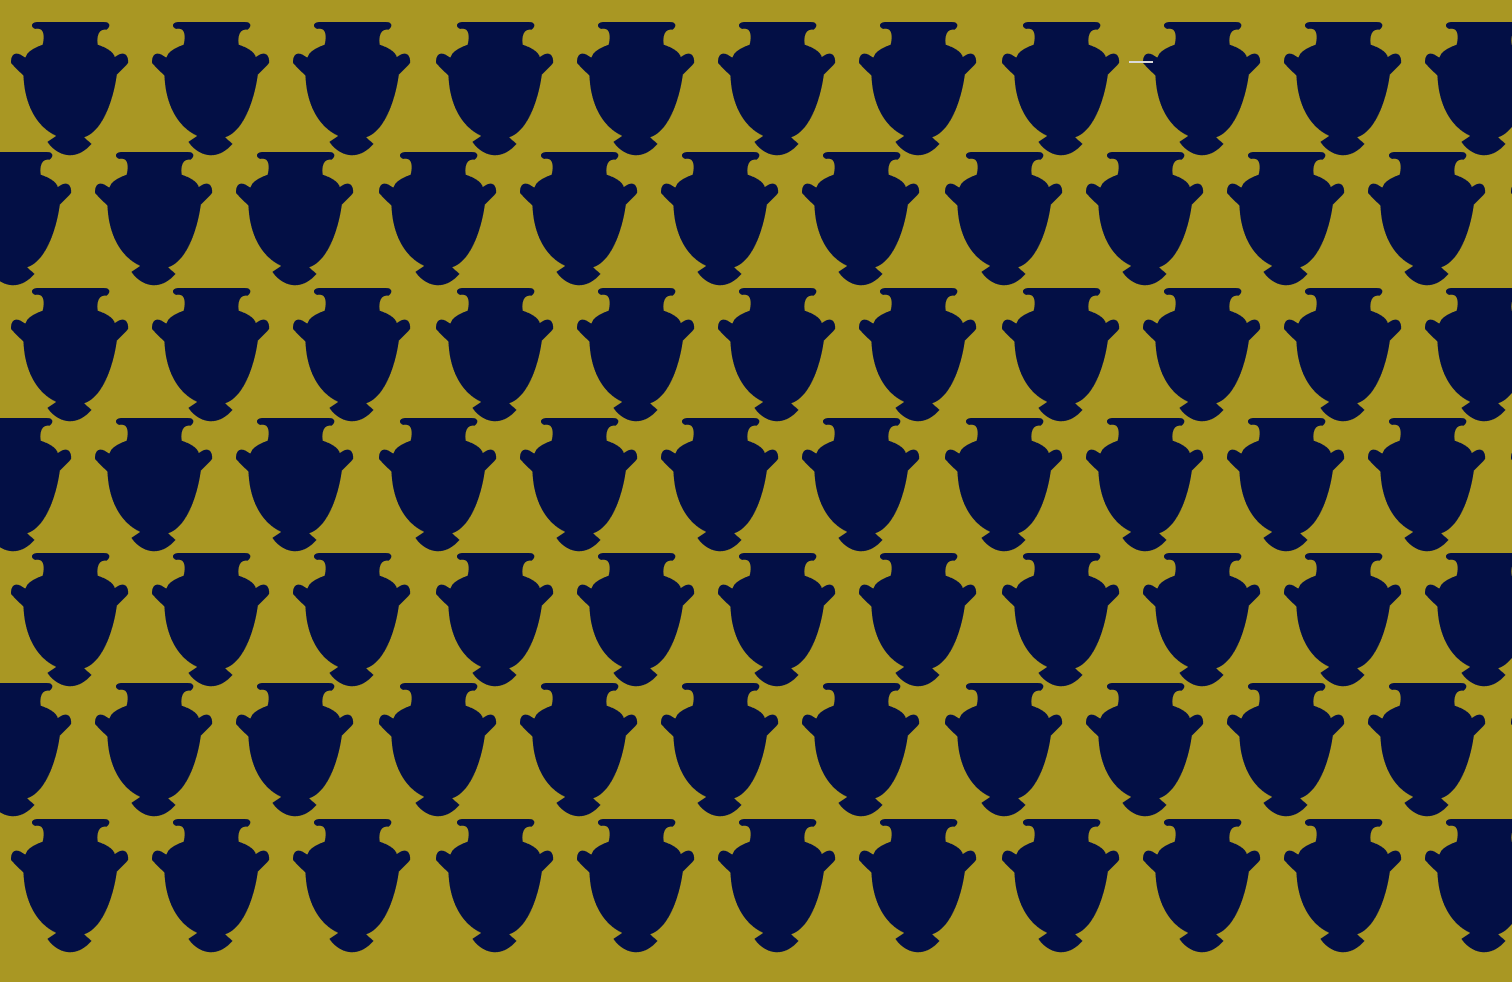
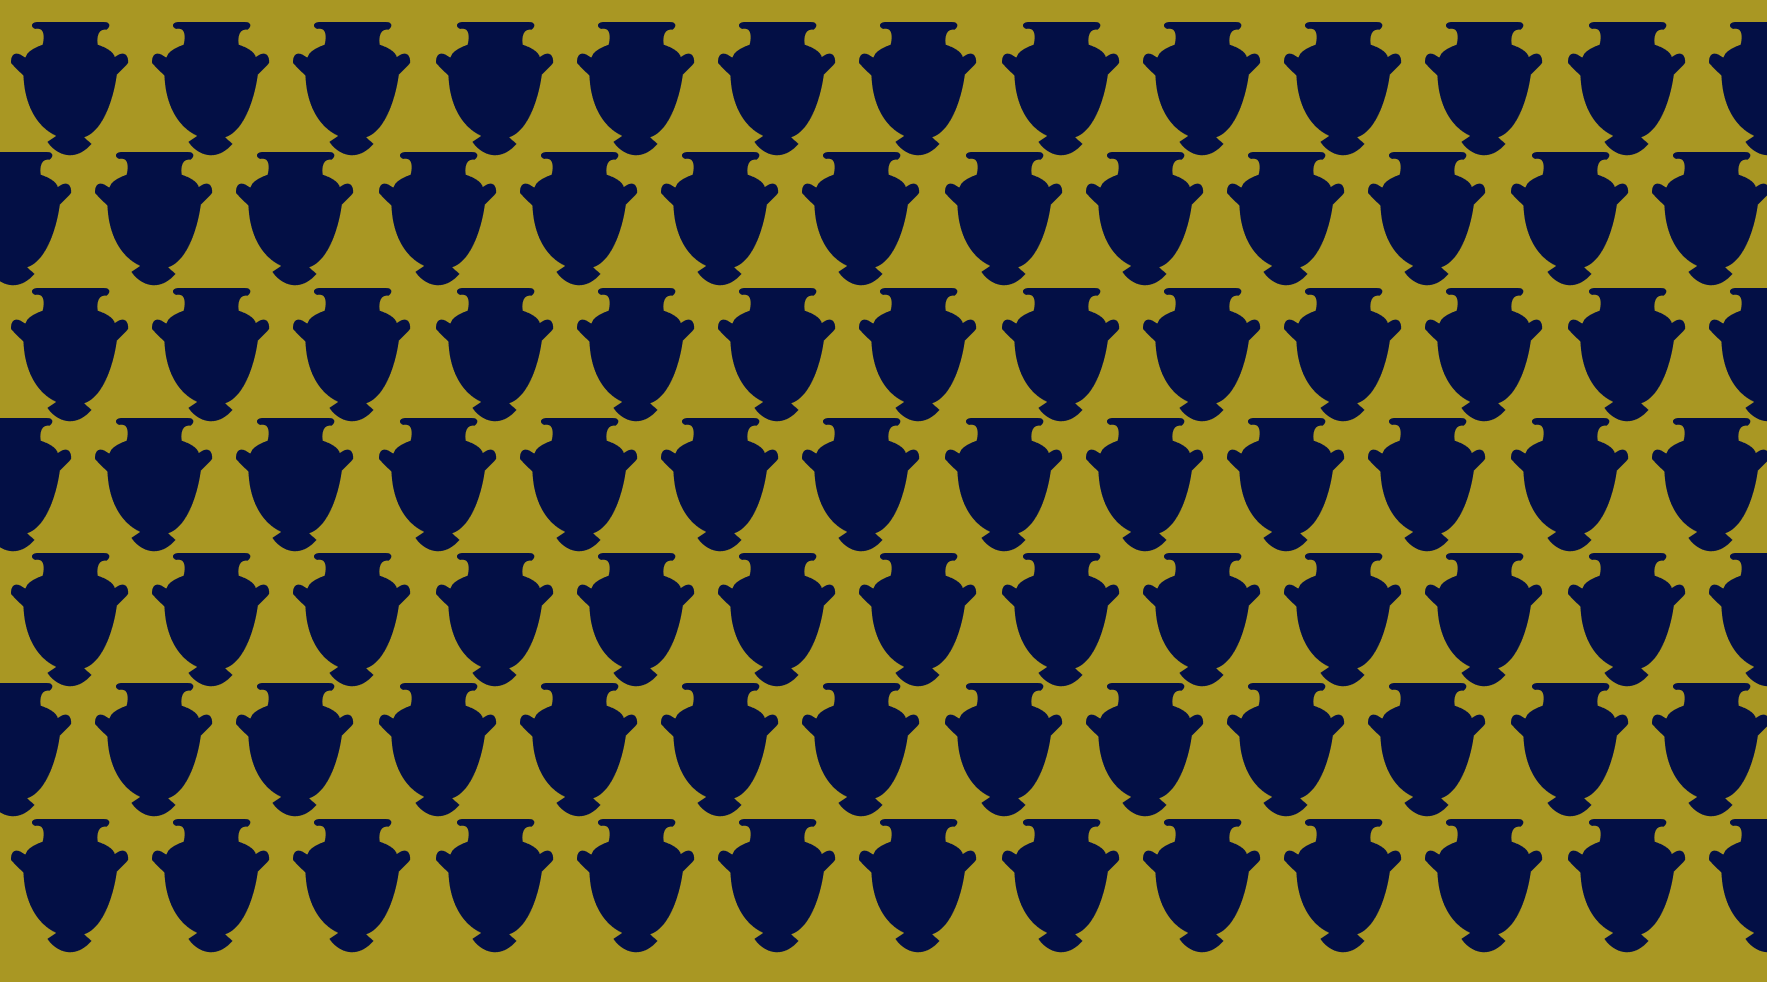
f

diff --git a/assets/style/normal.css b/assets/style/normal.css
@@ -58,3 +58,21 @@ html:has([value="dark"]:checked) {
   color-scheme: dark;
   background-color: var(--background);
 }
+
+.navbar .links {
+  position: relative;
+  display: flex; /*items naast elkaar*/
+  align-items: center;
+}
+
+.navbar .links a {
+  display: block;
+  color: #26bde6;
+  font-size: 1.7rem;
+  margin-left: 4rem;
+}
+
+.navbar .links a:hover,
+.navbar .links a.active {
+  color: #282d53;
+}
